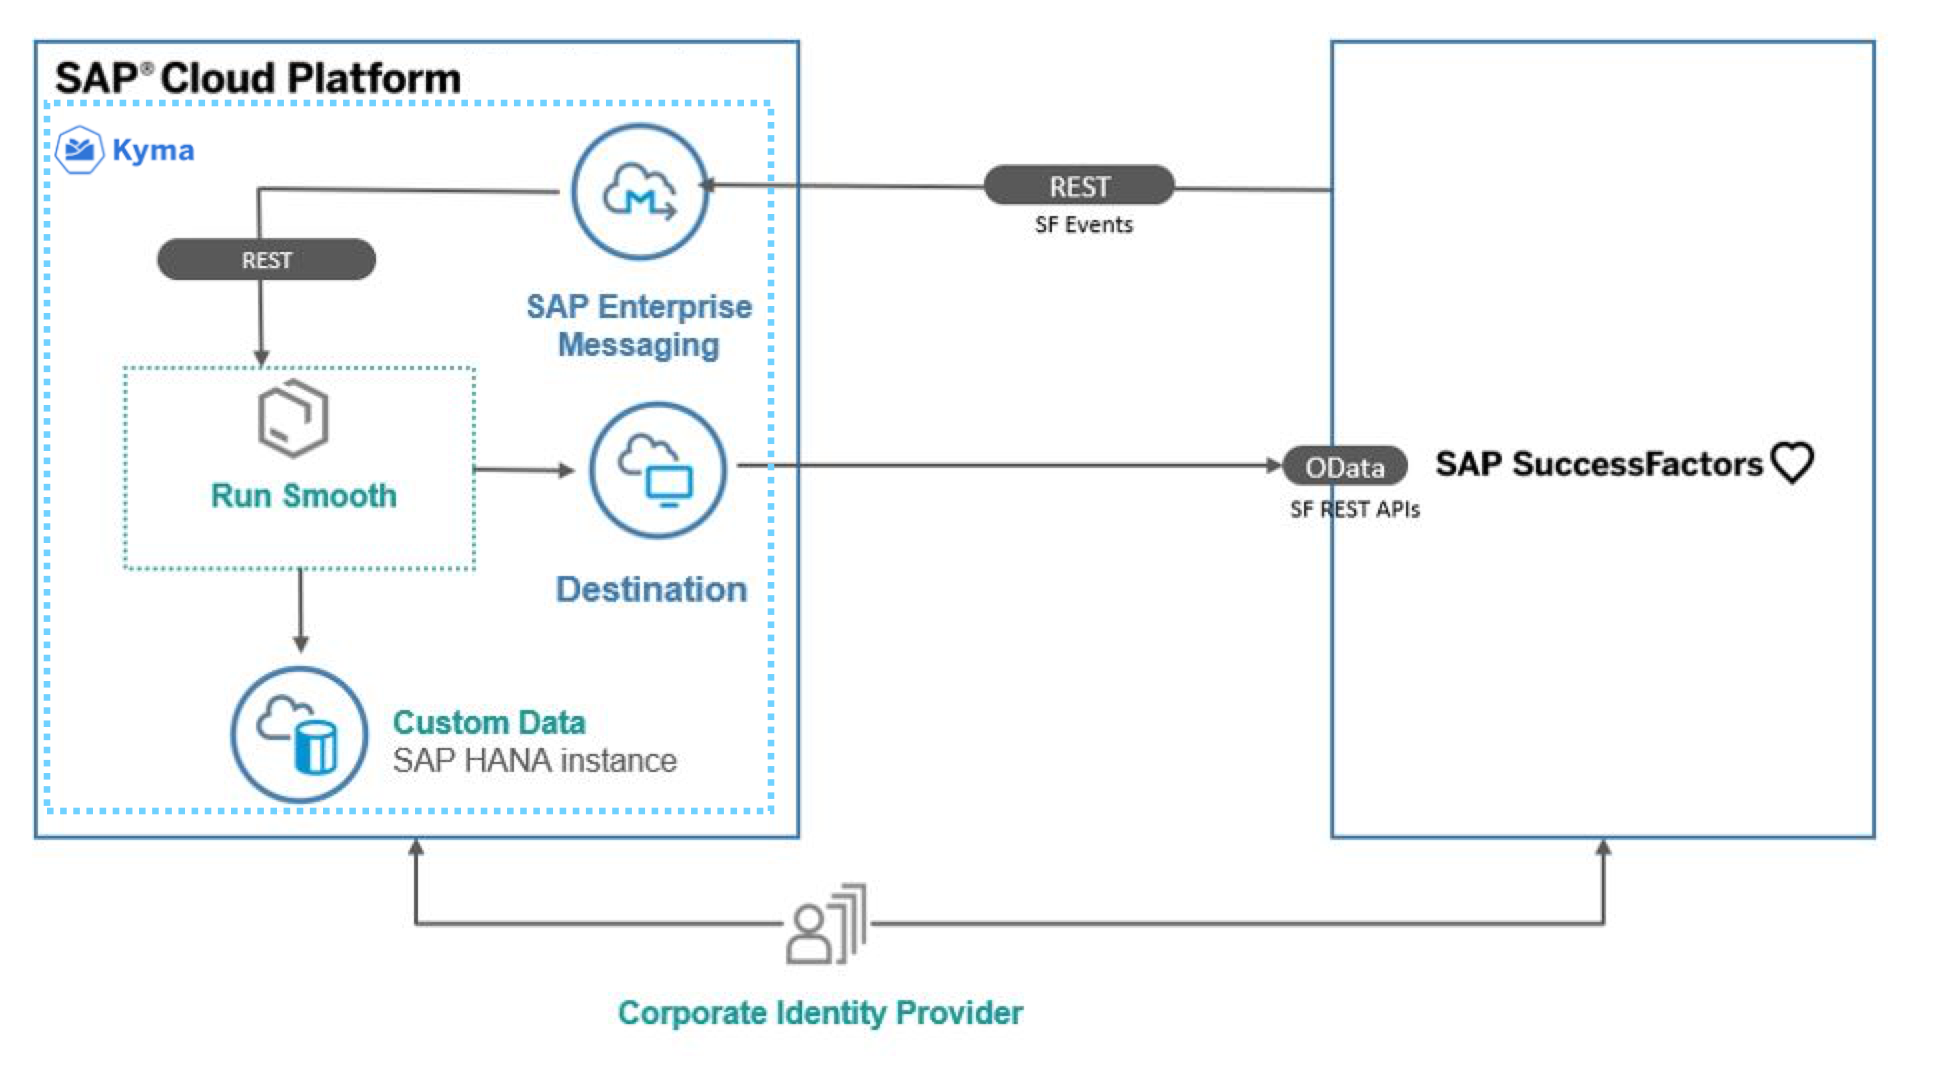
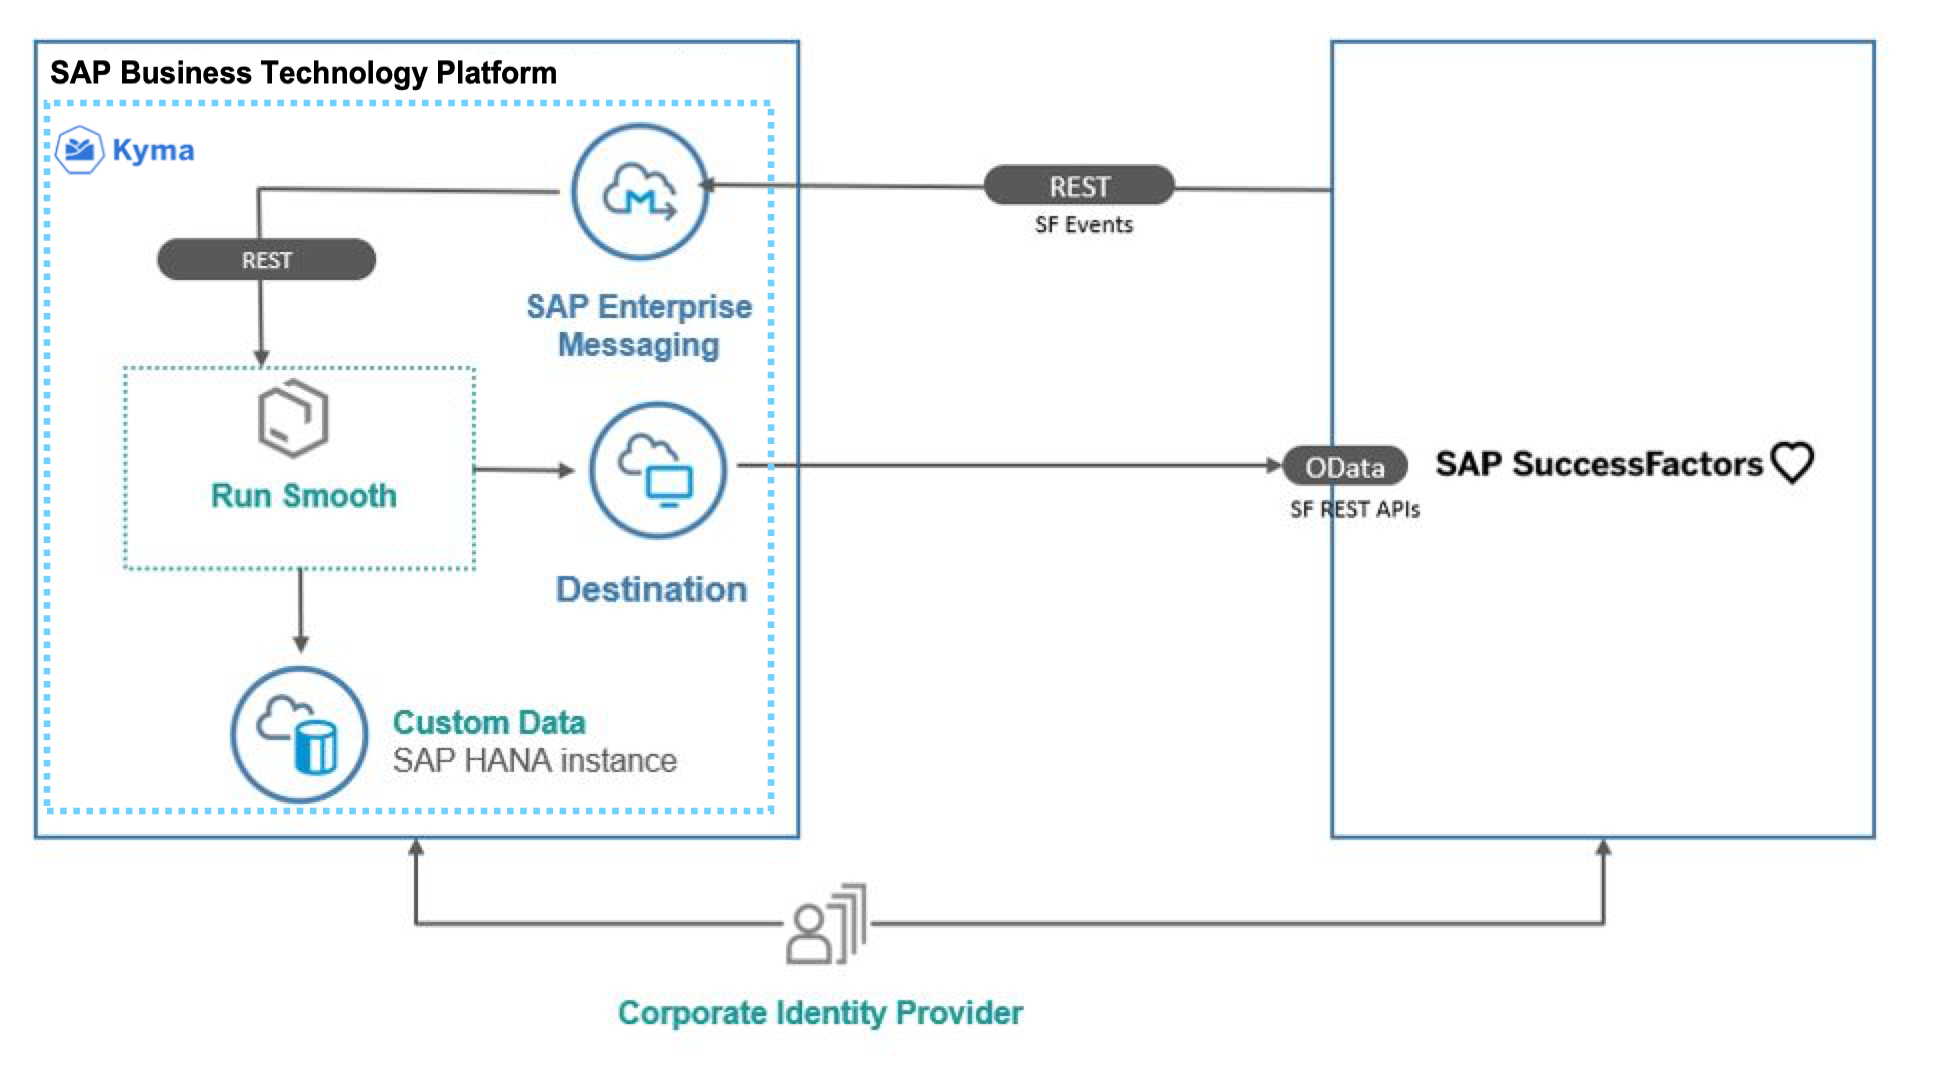
Documents update

Changed region(s): [[0.031, 0.0311, 0.2786, 0.0934]]

diff --git a/README.md b/README.md
@@ -1,12 +1,13 @@
 # SAP SucessFactors Extension Application - "Run Smooth"
 
+[![REUSE status](https://api.reuse.software/badge/github.com/sap-samples/cloud-kyma-sf-extension-cap-sample)](https://api.reuse.software/info/github.com/sap-samples/cloud-kyma-sf-extension-cap-sample)
 
 ## Description:
-`Run Smooth` is a reference application which showcases how to build an event driven extensions for SAP SuccessFactors using the capabilities provided by [SAP Cloud Platform Extension Factory](https://help.sap.com/viewer/7b98ddc13f8d4a3ba08a74042a0baa7f/Cloud/en-US). This solution is developed by extending the Employee Central module of SAP SuccessFactors to build an event driven application.
+`Run Smooth` is a reference application which showcases how to build an event driven extensions for SAP SuccessFactors using the capabilities provided by [SAP BTP Extension Suite](https://help.sap.com/viewer/7b98ddc13f8d4a3ba08a74042a0baa7f/Cloud/en-US). This solution is developed by extending the Employee Central module of SAP SuccessFactors to build an event driven application.
 
 This application showcases:
-1. Capabilities of SAP Cloud Platform Extension Factory
-2. Building application on SAP Cloud Platform using SAP Cloud Application Programming Model(CAP)
+1. Capabilities of SAP BTP Extension Suite
+2. Building application on SAP BTP using SAP Cloud Application Programming Model(CAP)
 3. Building and Event driven extension application using SAP CP Enterprise Messaging
 4. Consuming REST API's from SAP SuccessFactors using SAP CP Destination Service
 5. SCI(IAS) Tenant integration with SF
@@ -29,7 +30,7 @@ A Manager maintains in the Run Smooth application the staffing details of all th
 
 ![solution diagram](./documentation/images/SolutionDiagram.PNG)
 
-The Run Smooth application is developed using [SAP Cloud Application programming Model (CAP)](https://cap.cloud.sap/docs/) and runs on the SAP Cloud Platform, Cloud Foundry Environment. It consumes platform services like Enterprise Messaging, SAP HANA and Destination. The events generated in SuccessFactors are inserted into the Enterprise messaging queue. The application running in Cloud Foundry polls the queue for these messages and inserts them into the HANA database. The run smooth application also makes calls to SF OData APIs to get SF data.
+The Run Smooth application is developed using [SAP Cloud Application programming Model (CAP)](https://cap.cloud.sap/docs/) and runs on the SAP BTP, Cloud Foundry Environment. It consumes platform services like Enterprise Messaging, SAP HANA and Destination. The events generated in SuccessFactors are inserted into the Enterprise messaging queue. The application running in Cloud Foundry polls the queue for these messages and inserts them into the HANA database. The run smooth application also makes calls to SF OData APIs to get SF data.
 
 > Note: SAP fiori elements floorplans for OData V4 is in Lab preview and would be GA later this year.
 
@@ -52,9 +53,9 @@ If sap-registry is set in your system please delete by using below command.
 
 ## Configuration
 
-### Step 1: Configure trust between SF and SAP CP using Extension Factory
+### Step 1: Configure trust between SF and SAP CP using Extension Suite
 
- Follow steps 1, 2 and 4 from this [document](https://help.sap.com/viewer/65de2977205c403bbc107264b8eccf4b/Cloud/en-US/9e33934540c44681817567d6072effb2.html) to set up trust and destination to access SuccessFactors system using Extension Factory.
+ Follow steps 1, 2 and 4 from this [document](https://help.sap.com/viewer/65de2977205c403bbc107264b8eccf4b/Cloud/en-US/9e33934540c44681817567d6072effb2.html) to set up trust and destination to access SuccessFactors system using Extension Suite.
 > Ignore step 3 in the document as the service instance creation is automatically done when the application is deployed as MTA.
 
 ### Step 2: Download the EDMX files
